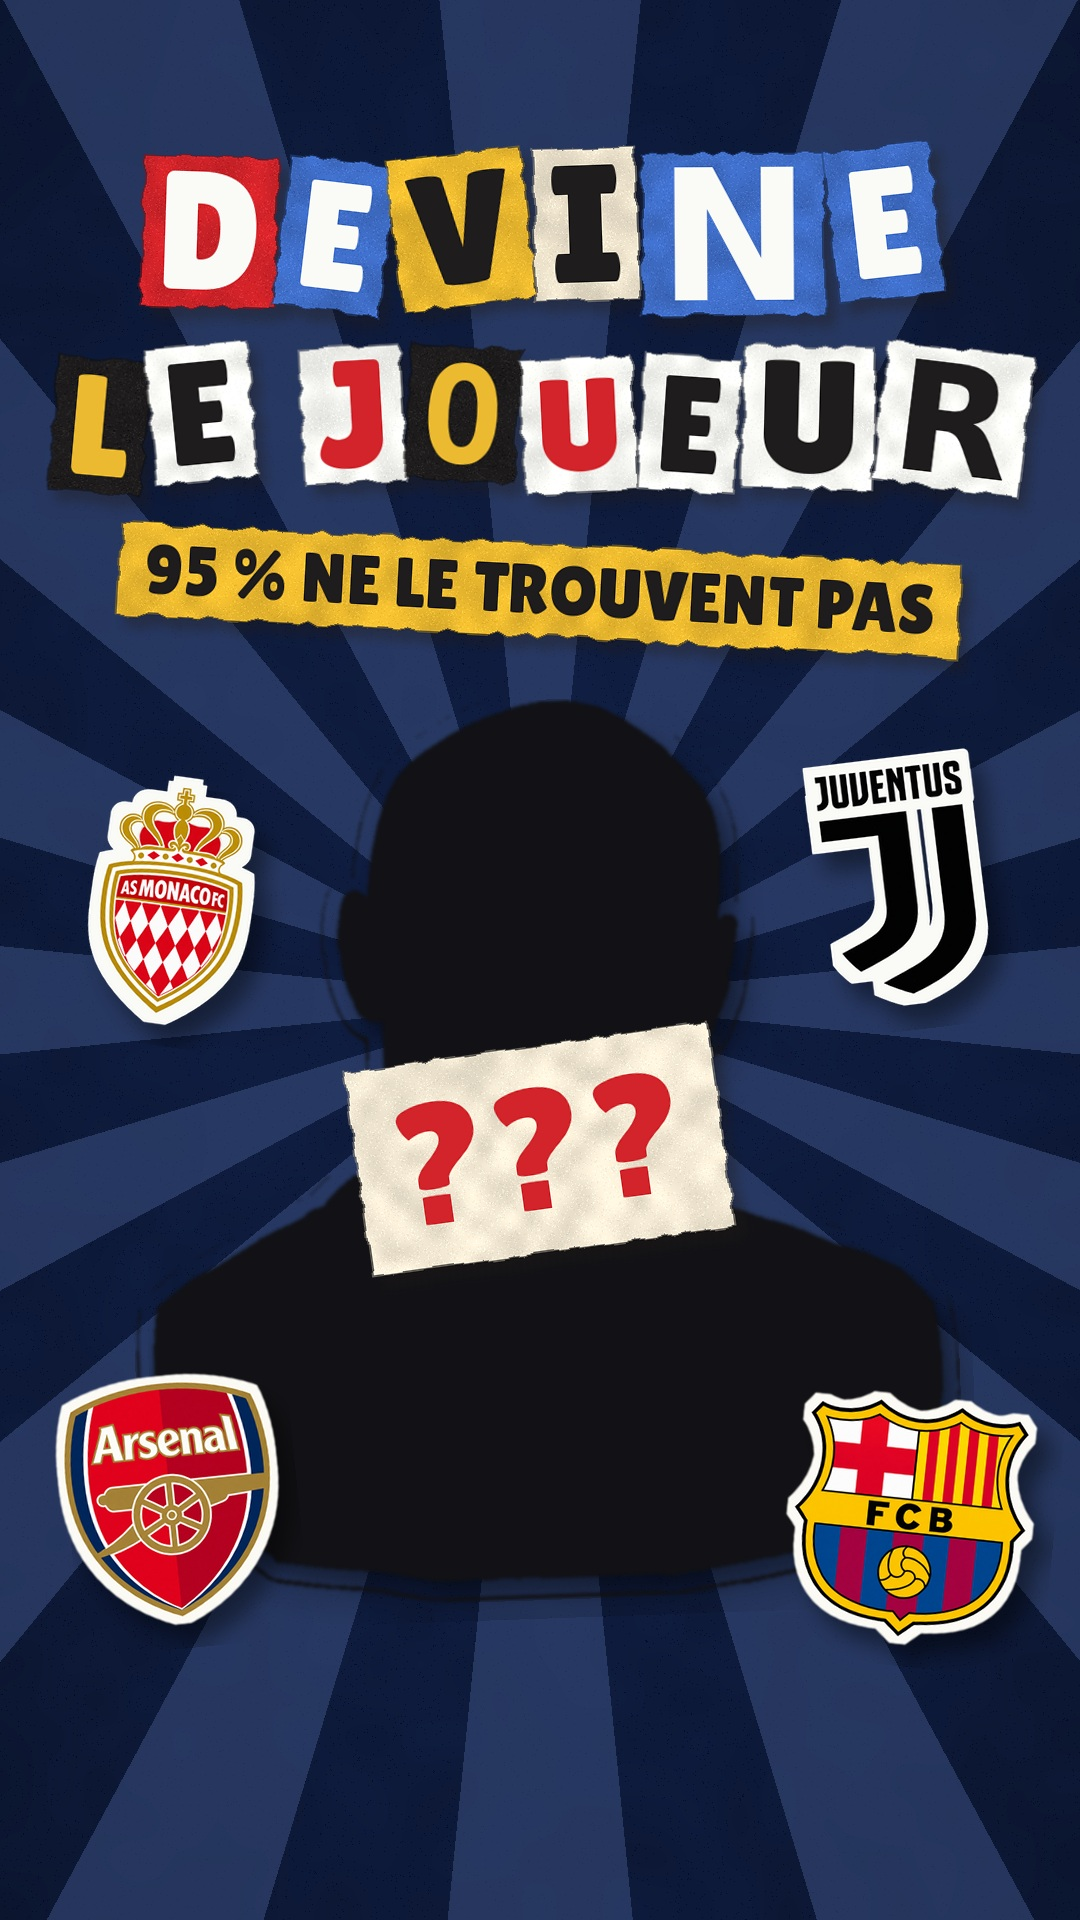
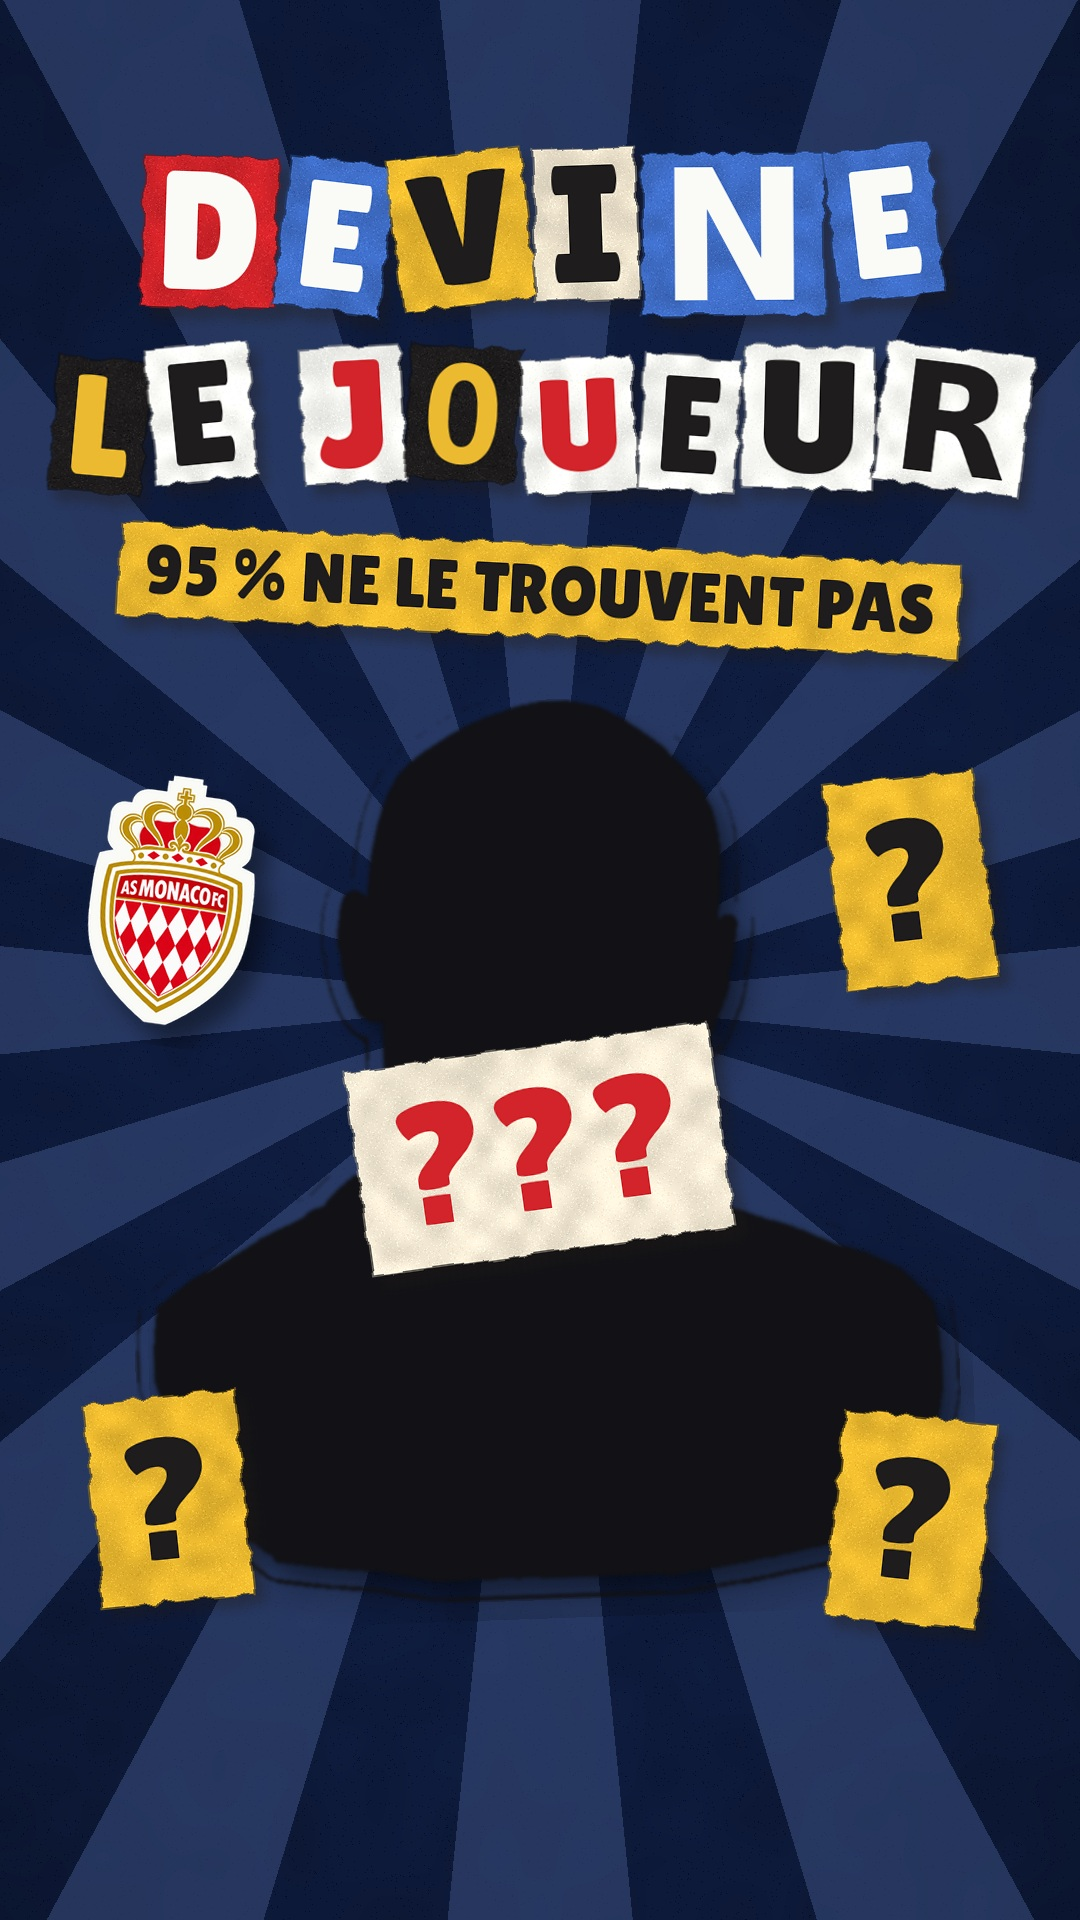
Couverture Henry : un seul écusson, le reste caché
Claude-Session: https://claude.ai/code/session_01DXpnpJ9jwFkxmTPwukopFs

Changed region(s): [[0.7333, 0.7188, 0.9778, 0.875], [0.0306, 0.6875, 0.275, 0.875], [0.7333, 0.375, 0.9472, 0.5312]]

diff --git a/episodes/devine_court_henry/devine_court_henry.py b/episodes/devine_court_henry/devine_court_henry.py
@@ -131,8 +131,9 @@ def cover(path):
     ransom_line(cv, "DEVINE", 230, 170, seed=3); ransom_line(cv, "LE JOUEUR", 420, 150, seed=9)
     LBL("95 % NE LE TROUVENT PAS", "dchcv1", font("title", 70), NOIR, GOLD, padx=24, pady=6, rough=3).draw(cv, 0, CX, 590, 1, -3)
     mystery(cv, CX, 1150, 900, 1, 2); STAMP("???", "dchcv2", ROUGE, 170).draw(cv, 0, CX, 1150, 1, 8)
-    for j, (lg, x, y, r) in enumerate([("monaco", 170, 900, -8), ("juventus", 910, 880, 7), ("arsenal", 170, 1500, 6), ("barca", 910, 1520, -6)]):
-        sticker(cv, lg, x, y, 260, 1, r)
+    sticker(cv, "monaco", 170, 900, 260, 1, -8)                     # 1 seul indice : le reste reste caché
+    for j, (x, y, r) in enumerate([(910, 880, 7), (170, 1500, 6), (910, 1520, -6)]):
+        big("?", f"dchcvq{j}", 170, NOIR, GOLD).draw(cv, 0, x, y, 1, r)
     finish(cv, TITLE); cv.convert("RGB").save(path, quality=94); return path
 
 def stills(out):
